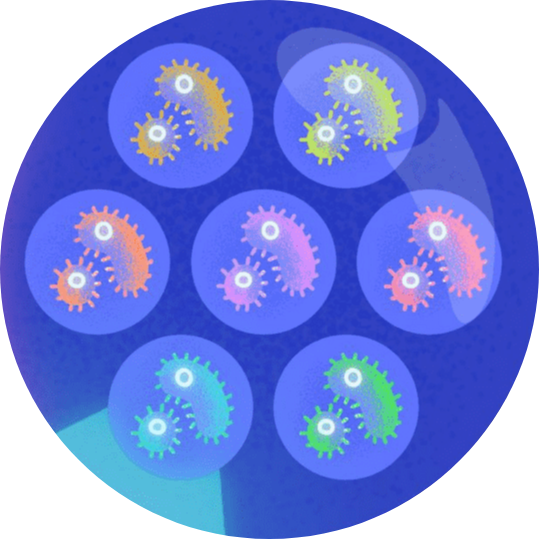
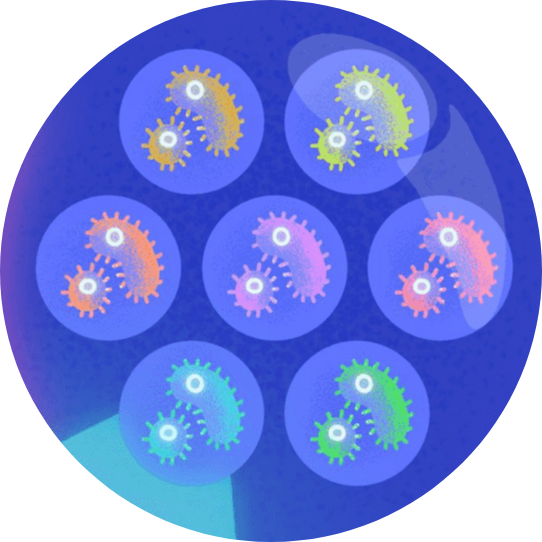
Update research illustrations

Changed region(s): [[0.0, 0.0297, 0.9499, 1.0], [0.8609, 0.2375, 0.8905, 0.2968], [0.564, 0.8609, 0.5937, 0.8905]]

diff --git a/index.html b/index.html
@@ -114,7 +114,7 @@
                     </div>
                 </div>
     			<br><br><br><br><br><br>
-    			<img id="SynBio" class="roundImg" id="research_2" alt="Synthetic biology" src="./assets/img/blue.jpg"/>
+    			<img id="SynBio" class="roundImg" id="research_2" alt="Synthetic biology" src="./assets/img/synbio-melanconnie.png"/>
     			<br><br>
     			<p><span class="smallerLargerTxt">Designing evolution through synthetic biology</span></p>
     			<p>
@@ -125,7 +125,7 @@
     			</p>
 
     			<br><br><br><br>
-                <img id="CompModels" class="roundImg" id="research_1" alt="Evolution" src="./assets/img/opqua.png"/>
+                <img id="CompModels" class="roundImg" id="research_1" alt="Evolution" src="./assets/img/population-melanconnie.png"/>
     			<br><br>
     			<p><span class="smallerLargerTxt">Computational models of evolutionary likelihood</span></p>
     			<p>
@@ -149,7 +149,7 @@
     			</p> -->
 
     			<br><br><br><br>
-    			<img id="Apps" class="roundImg" id="research_3" alt="Applications" src="./assets/img/malaria.jpg"/>
+    			<img id="Apps" class="roundImg" id="research_3" alt="Applications" src="./assets/img/earth-melanconnie.png"/>
     			<br><br>
     			<p><span class="smallerLargerTxt">Applications of evolutionary engineering</span></p>
     			<p>
